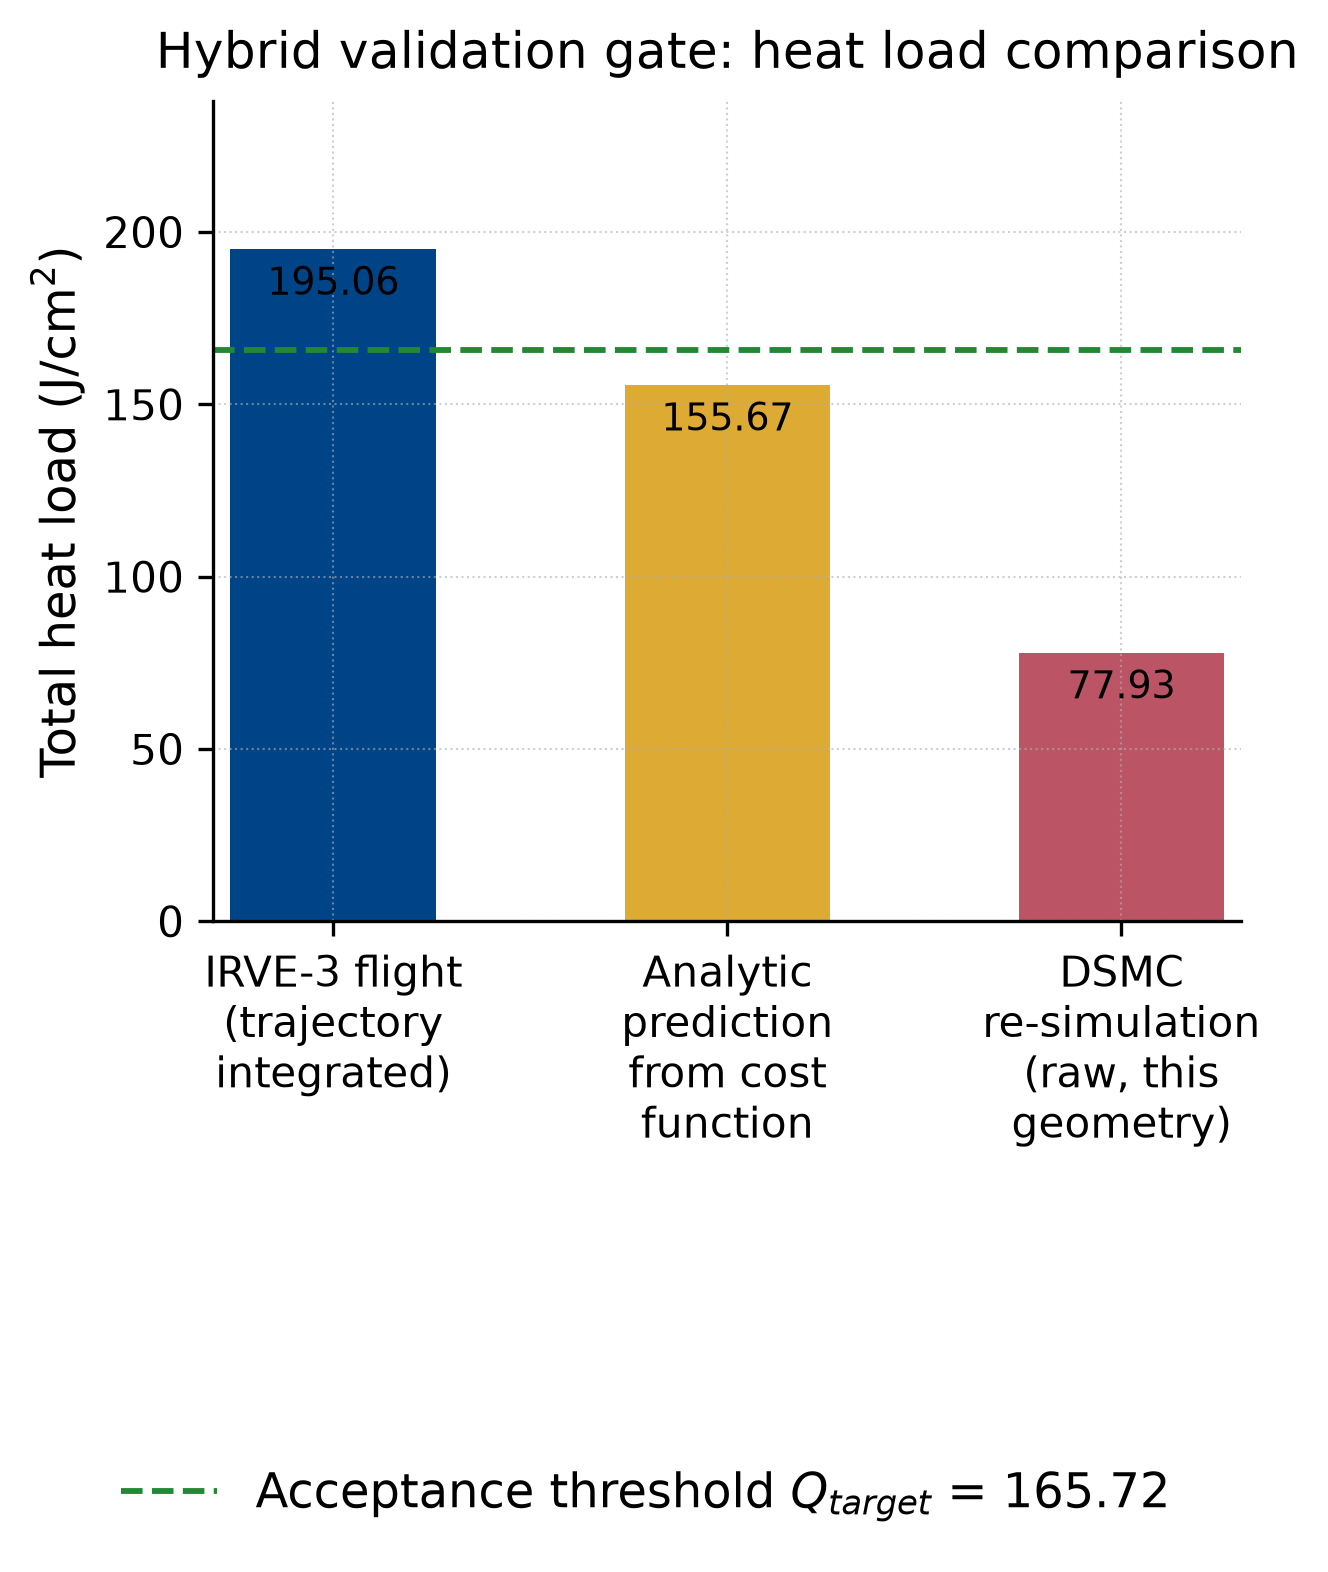
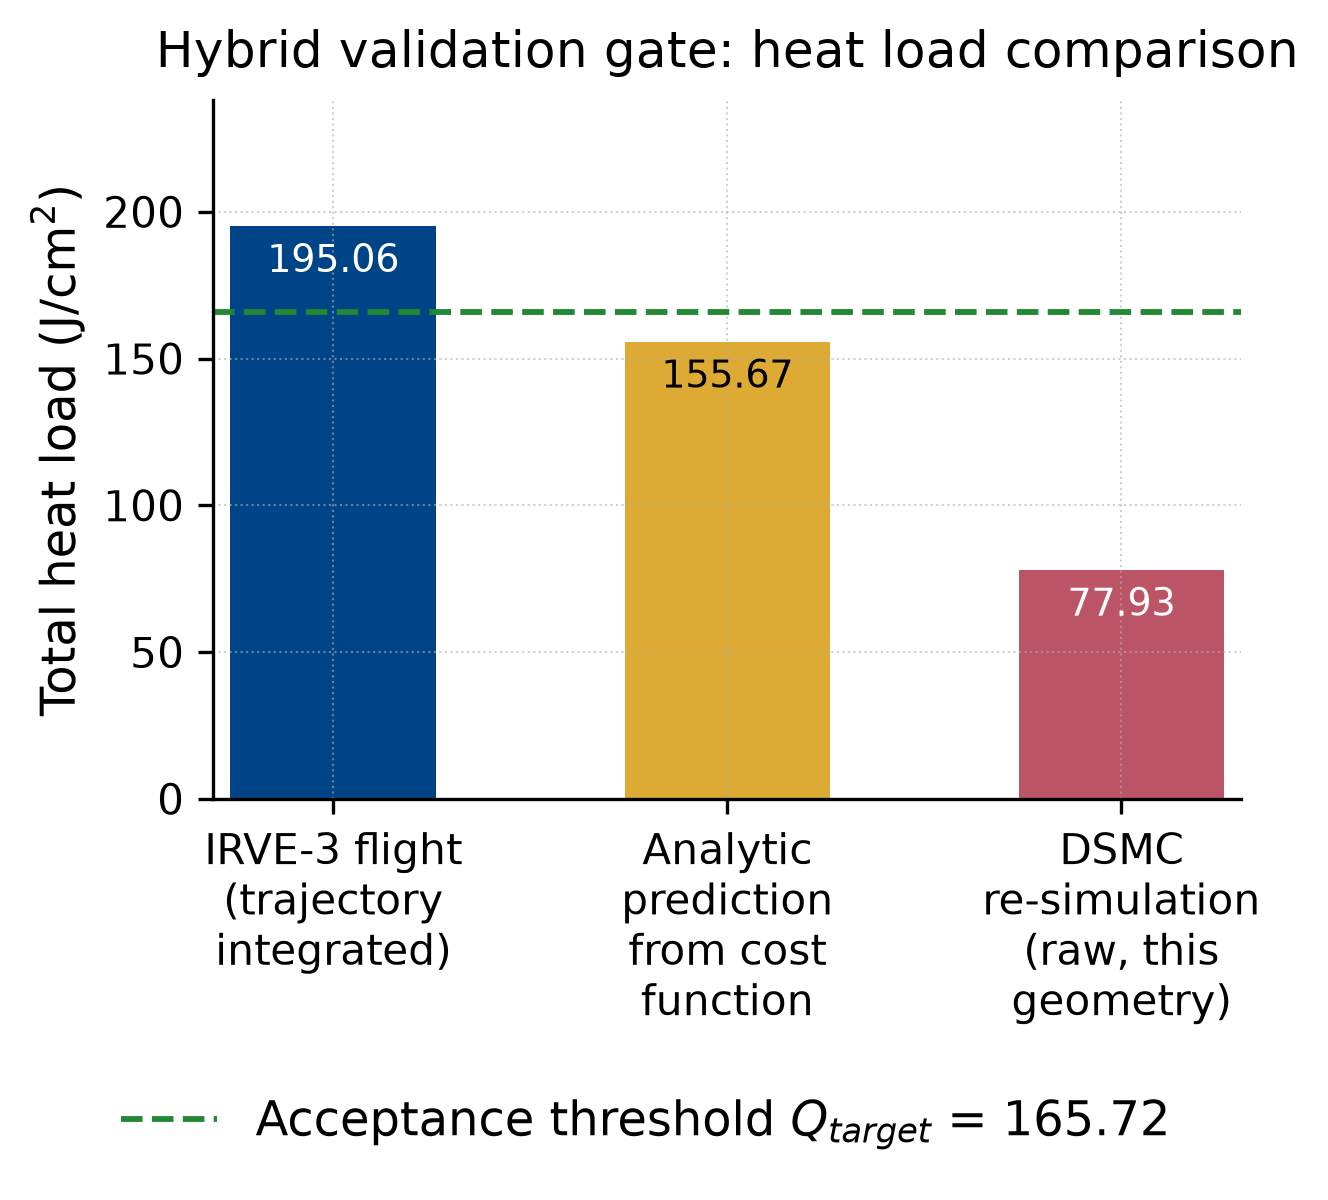
fix(thesis): A8/A9 fignew gate label contrast + legend band, trajectory dashed trace + run callouts

diff --git a/Lost+Found/ProgressReport/CurrentThesisFinalReport/figures/make_fignew.py b/Lost+Found/ProgressReport/CurrentThesisFinalReport/figures/make_fignew.py
@@ -170,6 +170,43 @@ def read_csv(path: Path) -> list[dict[str, str]]:
         return list(csv.DictReader(fh))
 
 
+def label_ink_for(bg_hex: str) -> str:
+    """Return the readable ink colour for a label drawn on a bar of bg_hex.
+
+    AXIOM: contrast is a property of the rendered pair, so it is computed
+    from the bar colour instead of being assumed. The relative luminance
+    uses the sRGB linearisation with the Rec. 709 coefficients, and a bar
+    lighter than a quarter luminance carries black text while a darker bar
+    carries white; every palette entry this module draws sits far from that
+    threshold, so the choice is never borderline.
+
+    Parameters
+    ----------
+    bg_hex : str
+        Bar fill as a '#rrggbb' string.
+
+    Returns
+    -------
+    str
+        'white' or 'black'.
+
+    Raises
+    ------
+    ValueError
+        If bg_hex is not a '#rrggbb' colour.
+    """
+
+    def channel(hexpair: str) -> float:
+        u = int(hexpair, 16) / 255.0
+        return u / 12.92 if u <= 0.04045 else ((u + 0.055) / 1.055) ** 2.4
+
+    if len(bg_hex) != 7 or bg_hex[0] != "#":
+        raise ValueError(f"expected a #rrggbb colour, got {bg_hex!r}")
+    lum = (0.2126 * channel(bg_hex[1:3]) + 0.7152 * channel(bg_hex[3:5])
+           + 0.0722 * channel(bg_hex[5:7]))
+    return "white" if lum < 0.25 else "black"
+
+
 def style(ax, title: str, xlabel: str, ylabel: str) -> None:
     # LABEL PT FLOOR: matplotlib draws a mathtext SUBSCRIPT at SHRINK_FACTOR
     # 0.7 of its parent, so a 9 pt label carrying $C_d$ printed its script at
@@ -456,11 +493,57 @@ def fig_trajectory() -> None:
     # line near 1.55 in, which fits, and says exactly what the single line said.
     style(ax1, "Velocity against\naltitude", "Altitude (km)", "Velocity (m/s)")
 
-    ax2.plot(alt, g, "-", lw=1.5, color=CB[0], label="deceleration load")
+    # A9: both panels drew the profile as the same solid CB[0] line, so the
+    # legend showed two identical solid-blue keys. The deceleration trace
+    # takes the shared dashed pattern (read from rcParams, as everywhere in
+    # this file, to keep the source free of a literal double hyphen); the
+    # drawn values are unchanged.
+    dashed = (0, tuple(matplotlib.rcParams["lines.dashed_pattern"]))
+    ax2.plot(alt, g, linestyle=dashed, lw=1.5, color=CB[0],
+             label="deceleration load")
     ax2.plot(alt[on_idx], g[on_idx], "s", ms=7, color=CB[1], mec="black", mew=0.7)
     ax2.plot(51.818481, 16.833399, "^", ms=8, color=CB[2], mec="black", mew=0.7)
     style(ax2, "Deceleration load\nagainst altitude", "Altitude (km)",
           "Deceleration load (g)")
+
+    # A9: the two run-condition markers sit about 1 px apart horizontally
+    # (data-correct crowding: the runs sampled near the same altitude), so
+    # the legend keys alone could not tell the reader which mark is which.
+    # Each marker gets a callout with a leader line, placed in a band
+    # measured empty against the profile curve, so every glyph clears the
+    # curve, the marker pair and the other callout.
+
+    def run_callout(x_ax, tag: str, marker, zx: float, zy: float,
+                    ink: str) -> None:
+        """Draw one run-condition callout with a leader to its marker.
+
+        WHY A LINE AND NOT annotate ARROWS: an Annotation box contains its
+        arrow, and two arrows converging on the same crowded marker pair
+        read as an overlap however far apart the labels sit. A plain
+        Line2D leader keeps the shared text guard measuring the label
+        alone, which is the pair it is actually able to judge.
+
+        Parameters
+        ----------
+        x_ax : matplotlib Axes, the panel receiving the callout.
+        tag : str, the two-line label text.
+        marker : tuple, (altitude, value) data point the leader ends at.
+        zx, zy : float, label position in the panel's data coordinates.
+        ink : str, leader colour, matching the marker edge colour.
+        """
+        x_ax.plot([marker[0], zx], [marker[1], zy], "-", lw=0.8, color=ink,
+                  zorder=2, solid_capstyle="round")
+        x_ax.text(zx, zy, tag, ha="center", va="center",
+                  fontsize=PLAIN_TEXT_PT, zorder=3)
+
+    run_callout(ax1, "scalloped\nrun", (alt[on_idx], vel[on_idx]),
+                85.0, 1800.0, CB[1])
+    run_callout(ax1, "smooth\nrun", (51.818481, 3378.671),
+                85.0, 4200.0, CB[2])
+    run_callout(ax2, "scalloped\nrun", (alt[on_idx], g[on_idx]),
+                85.0, 7.0, CB[1])
+    run_callout(ax2, "smooth\nrun", (51.818481, 16.833399),
+                85.0, 13.0, CB[2])
 
     # ONE legend, drawn BELOW both panels. The previous per-panel loc="best"
     # legends failed on the rendered page: the left legend covered the y-tick
@@ -662,12 +745,15 @@ def fig_gate() -> None:
     # pitch of 1.15, only 38 percent of the width, and verification measured
     # the three category labels touching even after the spread change.
     ax.set_xlim(-0.35, (len(series) - 1) * 1.15 + 0.35)
-    for b, (_, v, _) in zip(bars, series):
+    for b, (_, v, c) in zip(bars, series):
         # Value labels hang INSIDE the bar top: an above-bar label for the
         # analytic bar landed 1 px under the dashed acceptance-threshold line.
+        # A8: the ink follows the bar luminance, because "195.06" printed
+        # pure black on the navy IRVE-3 bar at about 2.2:1; the gold bar
+        # keeps black, which reads far better than white on it.
         ax.annotate(f"{v:.2f}", (b.get_x() + b.get_width() / 2, v), ha="center",
                     va="top", textcoords="offset points", xytext=(0, -4),
-                    fontsize=PLAIN_TEXT_PT)
+                    fontsize=PLAIN_TEXT_PT, color=label_ink_for(c))
     threshold_line = None
     if q_target:
         # The dashed linestyle is taken from the active rcParams instead of the
@@ -684,7 +770,14 @@ def fig_gate() -> None:
           "", "Total heat load (J/cm$^2$)")
     top = max(vals + ([q_target] if q_target else []))
     ax.set_ylim(0, top * 1.22)
-    fig.tight_layout()
+    # A8: the legend used to hang at bbox (0.5, -0.30), outside the canvas,
+    # and bbox_inches="tight" then grew the saved image to reach it, which
+    # measured a 324 px (1.08 in) empty band between the four x-tick label
+    # lines and the legend. Reserve the band inside the figure instead:
+    # tight_layout keeps the axes and its four-line tick labels above 10% of
+    # the height, and the legend anchor sits fully inside the canvas, so the
+    # tight crop no longer inflates the figure.
+    fig.tight_layout(rect=(0, 0.10, 1, 1))
     if threshold_line is not None:
         # LEGEND PT FLOOR: this key carries a mathtext subscript, so the
         # previous 8 pt in-axes legend printed that subscript at 5.6 pt and
@@ -696,7 +789,7 @@ def fig_gate() -> None:
         # category labels drawn below the axes.
         fig.legend([threshold_line], [threshold_line.get_label()],
                    fontsize=SCRIPT_SAFE_PT, loc="lower center", ncol=1,
-                   frameon=False, bbox_to_anchor=(0.5, -0.30))
+                   frameon=False, bbox_to_anchor=(0.5, 0.005))
     save(fig, "fignew_gate_comparison.png", WIDTH_NARROW)
 
 
